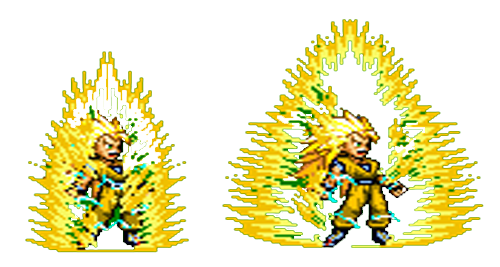
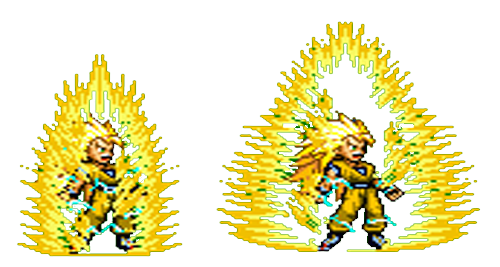
In progress dbz animation

diff --git a/angular/src/app/game/player/player.component.scss b/angular/src/app/game/player/player.component.scss
@@ -6,7 +6,7 @@ body {
   background-repeat: no-repeat;
 }
 
-.base, .ssj, .ssj3 {
+.base, .ssj, .ssj2, .ssj3 {
   width: 120px;
   height: 250px;
   animation: stand .8s steps(2) infinite;
